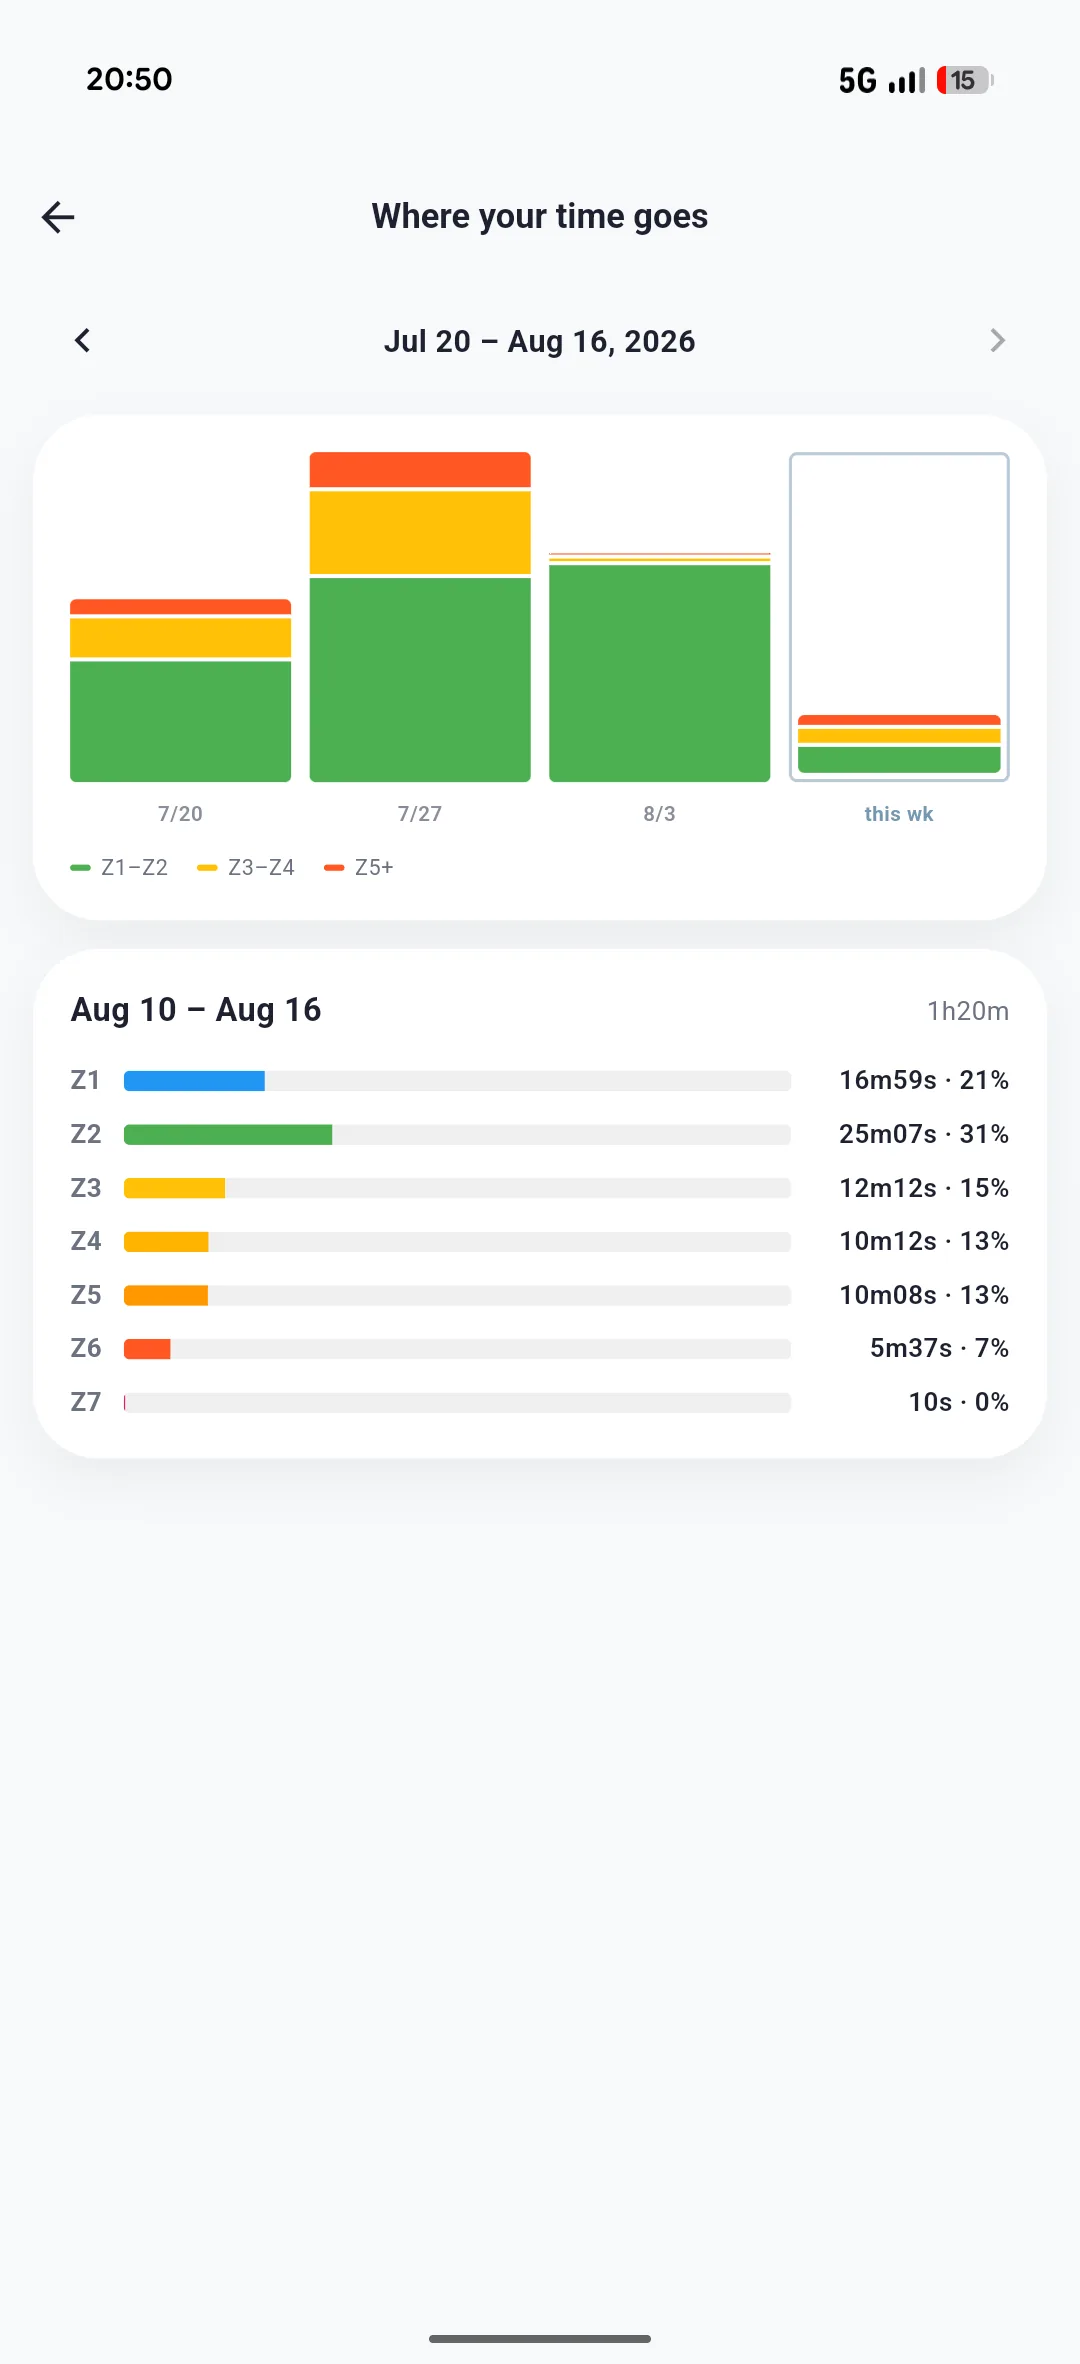
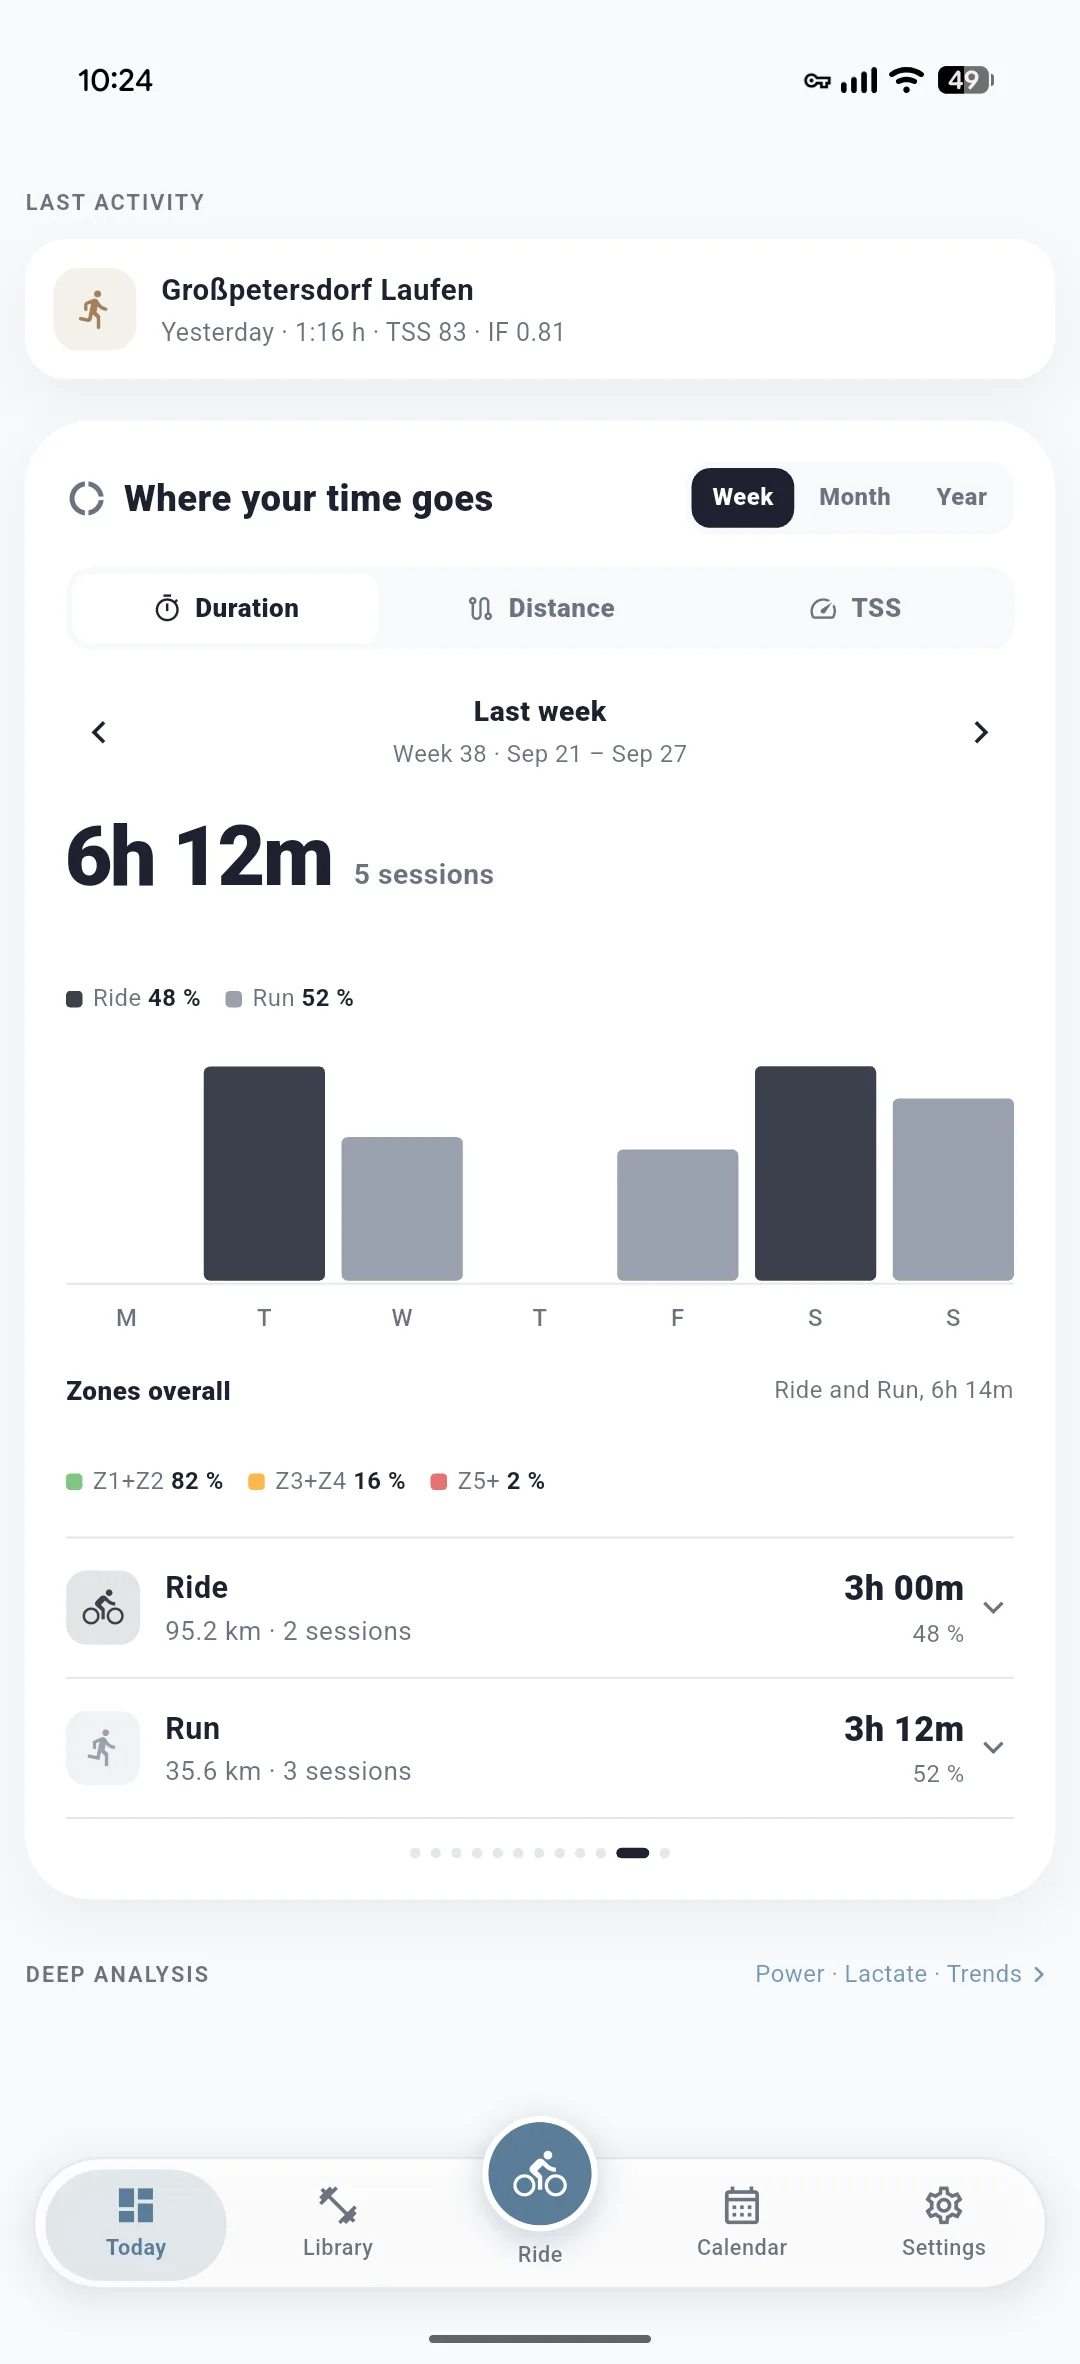
Hero: new time-in-zones screenshot as the right-hand phone
The time-in-zones screen now shows weekly training time split by sport
with the overall zone distribution; the screenshot and its alt text
follow. It takes the right slot of the hero carousel, VO2max moves to
fourth.

diff --git a/src/i18n/translations.ts b/src/i18n/translations.ts
@@ -51,7 +51,7 @@ export const translations = {
       },
       zones: {
         label: "Time in zones",
-        alt: "ENDURE time in zones with the weekly Z1 to Z7 power distribution",
+        alt: "ENDURE weekly training time split into ride and run, with the overall zone distribution",
         caption: "Time in Zones: where your training time actually goes, week by week"
       },
       coaching: {
@@ -532,7 +532,7 @@ export const translations = {
       },
       zones: {
         label: "Zeit in Zonen",
-        alt: "ENDURE Zeit in Zonen mit der Wochenverteilung von Z1 bis Z7",
+        alt: "ENDURE Trainingszeit der Woche, aufgeteilt nach Rad und Laufen, mit der Zonenverteilung insgesamt",
         caption: "Zeit in Zonen: wo deine Trainingszeit wirklich landet, Woche für Woche"
       },
       coaching: {
